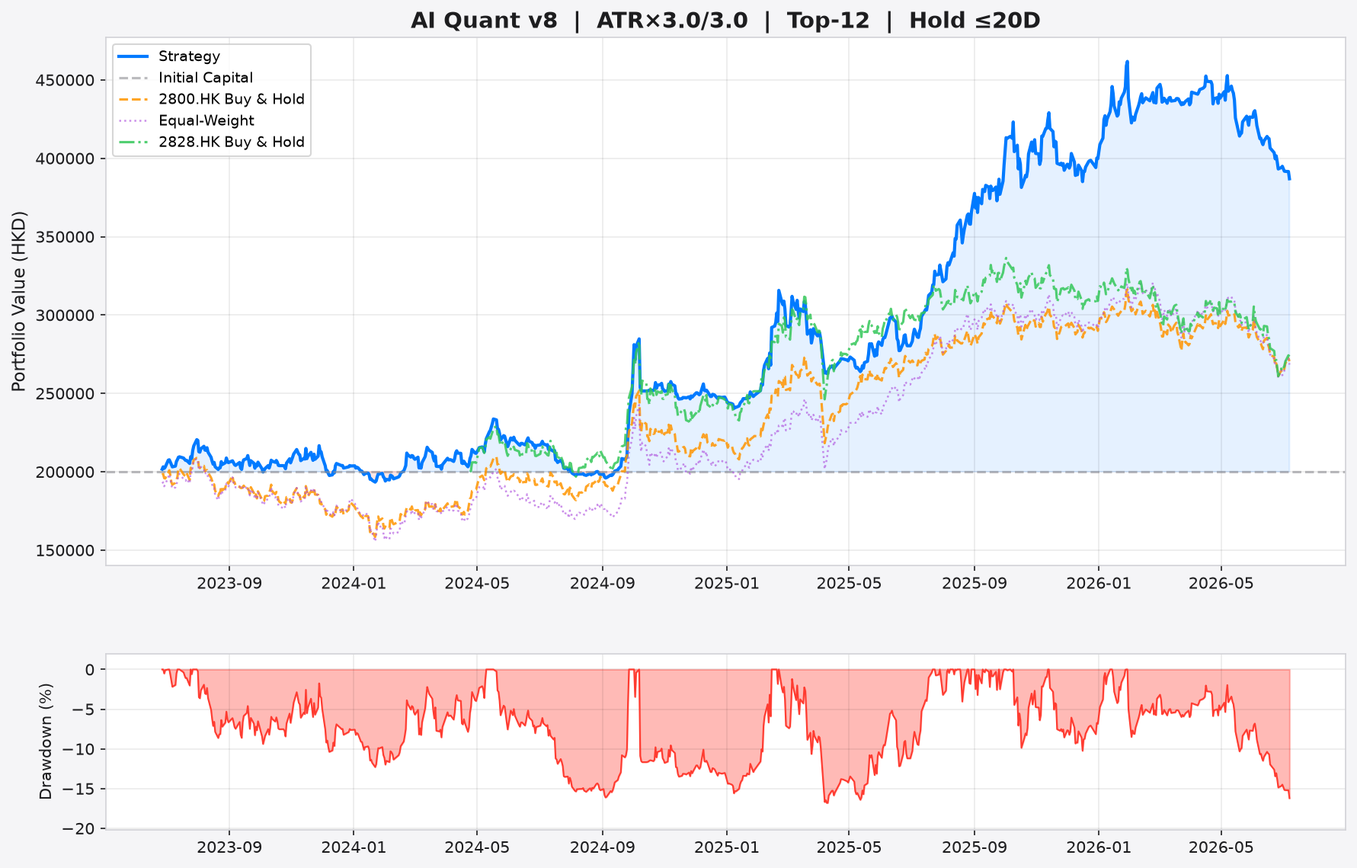
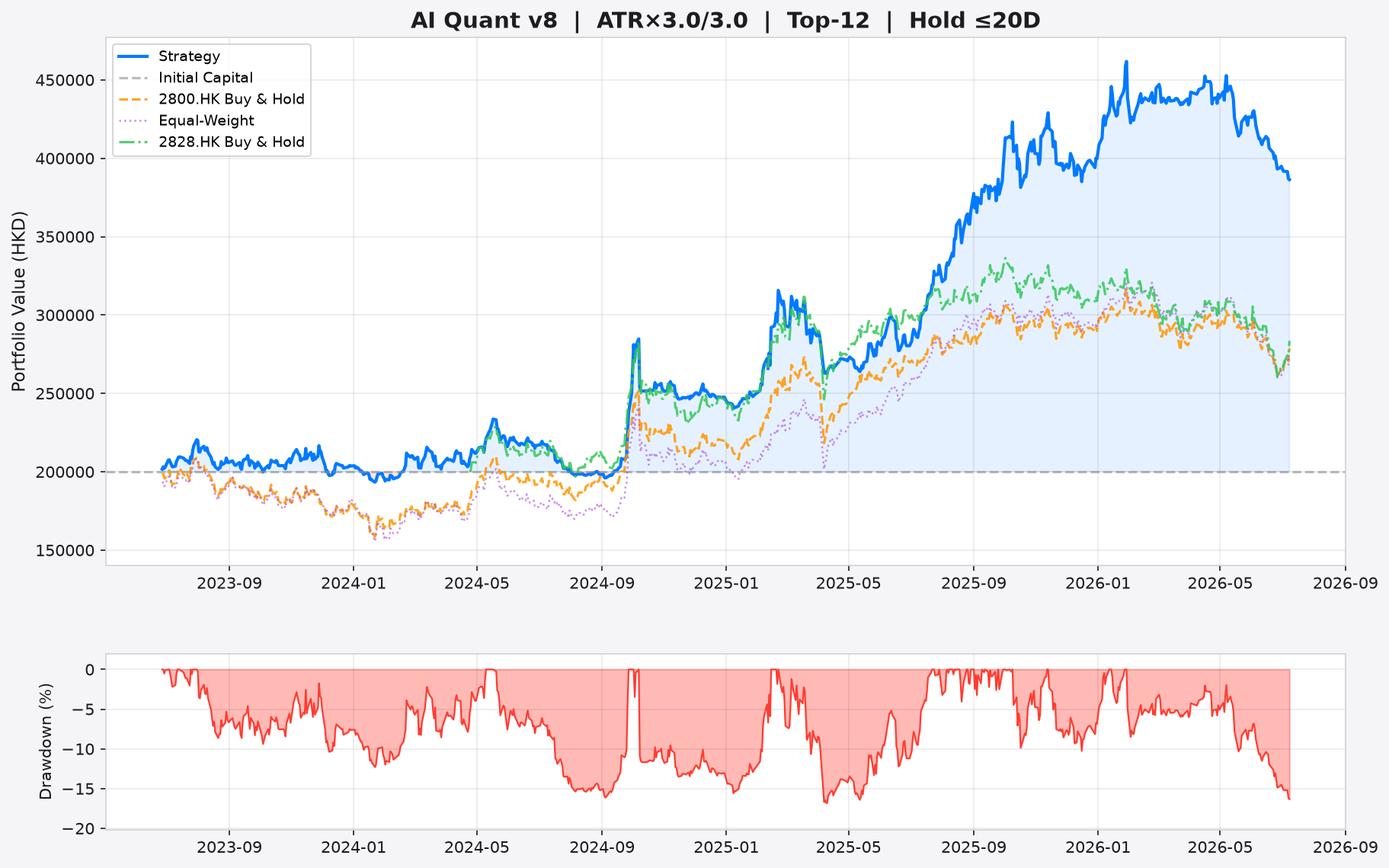
📊 AI Report v8.5 + Paper Trading (2026-07-08)

diff --git a/stock_report.html b/stock_report.html
@@ -3,7 +3,7 @@
 <head>
     <meta charset="utf-8">
     <meta name="viewport" content="width=device-width, initial-scale=1.0">
-    <title>AI 港股量化交易 v8.5 — 2026-07-07</title>
+    <title>AI 港股量化交易 v8.5 — 2026-07-08</title>
     <meta name="description" content="AI 驅動的港股量化交易系統 v8.5，完整風險報告、Benchmark 對比、OCO 智慧掛單建議">
     <script>
         (function() {
@@ -292,7 +292,7 @@
 
     <h1>🎯 AI 港股量化交易 v8.5</h1>
     <p class="subtitle">
-        Event-Driven System &nbsp;|&nbsp; 報表日期: 2026-07-07 &nbsp;|&nbsp;
+        Event-Driven System &nbsp;|&nbsp; 報表日期: 2026-07-08 &nbsp;|&nbsp;
         <span class="config-badge">🛡 ATR×3.0/3.0</span>
         <span class="config-badge">🌐 Universe-60</span>
         <span class="config-badge">🎯 Top-12</span>
@@ -305,19 +305,19 @@
     <div class="stats">
         <div class="stat-card">
             <div class="label">策略總報酬率</div>
-            <div class="value" style="color:#00ff00;">+93.5%</div>
+            <div class="value" style="color:#00ff00;">+93.2%</div>
         </div>
         <div class="stat-card">
             <div class="label">年化報酬率</div>
-            <div class="value" style="color:#00ff00;">+25.1%</div>
+            <div class="value" style="color:#00ff00;">+25.0%</div>
         </div>
         <div class="stat-card">
             <div class="label">年化波動率</div>
-            <div class="value">24.6%</div>
+            <div class="value">24.5%</div>
         </div>
         <div class="stat-card risk">
             <div class="label">Sharpe Ratio</div>
-            <div class="value" style="color:#00ff00;">1.03</div>
+            <div class="value" style="color:#00ff00;">1.02</div>
         </div>
         <div class="stat-card risk">
             <div class="label">Sortino Ratio</div>
@@ -329,7 +329,7 @@
         </div>
         <div class="stat-card risk">
             <div class="label">Calmar Ratio</div>
-            <div class="value">1.50</div>
+            <div class="value">1.49</div>
         </div>
         <div class="stat-card">
             <div class="label">完成交易數</div>
@@ -372,23 +372,27 @@
             </tr>
         </thead>
         <tbody>
-<tr><td>2359</td><td>5.47</td><td>150.3</td><td><span style="color:#00ff00; font-weight:bold;">🟢 建議買進 #1</span></td><td><b>停利:</b> <span style="color:#00ff00">171.2</span> (+13.9%) <br><b>停損:</b> <span style="color:#ff4444">129.4</span> (-13.9%) <br><b>最晚出場:</b> 2026-08-04</td><td><span style="font-size:0.72rem; color:#888;">歷史 <b>15</b>筆 | 勝率 <b style="color:#00ff00">73%</b> | 均報酬 <b style="color:#00ff00">+4.4%</b></span></td><td><span style="font-size:0.78rem;">⚪ 無資料<br><span style="color:#888; font-weight:bold;">+0.0%</span></span></td><td><span style="font-size:0.78rem;">⚪ 中性</span></td></tr>
-<tr><td>1801</td><td>5.24</td><td>87.2</td><td><span style="color:#00ff00; font-weight:bold;">🟢 建議買進 #2</span></td><td><b>停利:</b> <span style="color:#00ff00">100.4</span> (+15.2%) <br><b>停損:</b> <span style="color:#ff4444">74.0</span> (-15.2%) <br><b>最晚出場:</b> 2026-08-04</td><td><span style="font-size:0.72rem; color:#888;">歷史 <b>11</b>筆 | 勝率 <b style="color:#00ff00">64%</b> | 均報酬 <b style="color:#00ff00">+3.1%</b></span></td><td><span style="font-size:0.78rem;">⚪ 無資料<br><span style="color:#888; font-weight:bold;">+0.0%</span></span></td><td><span style="font-size:0.78rem;">⚪ 中性</span></td></tr>
-<tr><td>2269</td><td>5.22</td><td>36.8</td><td><span style="color:#00ff00; font-weight:bold;">🟢 建議買進 #3</span></td><td><b>停利:</b> <span style="color:#00ff00">41.9</span> (+13.8%) <br><b>停損:</b> <span style="color:#ff4444">31.7</span> (-13.8%) <br><b>最晚出場:</b> 2026-08-04</td><td><span style="font-size:0.72rem; color:#888;">歷史 <b>11</b>筆 | 勝率 <b style="color:#ff4444">45%</b> | 均報酬 <b style="color:#ff4444">-2.2%</b></span></td><td><span style="font-size:0.78rem;">⚪ 無資料<br><span style="color:#888; font-weight:bold;">+0.0%</span></span></td><td><span style="font-size:0.78rem;">⚪ 中性</span></td></tr>
-<tr><td>0669</td><td>5.13</td><td>130.3</td><td><span style="color:#00ff00; font-weight:bold;">🟢 建議買進 #4</span></td><td><b>停利:</b> <span style="color:#00ff00">144.8</span> (+11.2%) <br><b>停損:</b> <span style="color:#ff4444">115.8</span> (-11.2%) <br><b>最晚出場:</b> 2026-08-04</td><td><span style="font-size:0.72rem; color:#888;">歷史 <b>10</b>筆 | 勝率 <b style="color:#00ff00">80%</b> | 均報酬 <b style="color:#00ff00">+2.3%</b></span></td><td><span style="font-size:0.78rem;">⚪ 無資料<br><span style="color:#888; font-weight:bold;">+0.0%</span></span></td><td><span style="font-size:0.78rem;">⚪ 中性</span></td></tr>
-<tr><td>6160</td><td>5.13</td><td>184.3</td><td><span style="color:#00ff00; font-weight:bold;">🟢 建議買進 #5</span></td><td><b>停利:</b> <span style="color:#00ff00">204.7</span> (+11.1%) <br><b>停損:</b> <span style="color:#ff4444">163.9</span> (-11.1%) <br><b>最晚出場:</b> 2026-08-04</td><td><span style="font-size:0.72rem; color:#888;">歷史 <b>2</b>筆 | 勝率 <b style="color:#00ff00">50%</b> | 均報酬 <b style="color:#ff4444">-1.4%</b></span></td><td><span style="font-size:0.78rem;">⚪ 無資料<br><span style="color:#888; font-weight:bold;">+0.0%</span></span></td><td><span style="font-size:0.78rem;">⚪ 中性</span></td></tr>
-<tr><td>0005</td><td>4.98</td><td>153.3</td><td><span style="color:#00ff00; font-weight:bold;">🟢 建議買進 #6</span></td><td><b>停利:</b> <span style="color:#00ff00">162.4</span> (+5.9%) <br><b>停損:</b> <span style="color:#ff4444">144.2</span> (-5.9%) <br><b>最晚出場:</b> 2026-08-04</td><td><span style="font-size:0.72rem; color:#888;">歷史 <b>9</b>筆 | 勝率 <b style="color:#00ff00">78%</b> | 均報酬 <b style="color:#00ff00">+2.3%</b></span></td><td><span style="font-size:0.78rem;">⚪ 無資料<br><span style="color:#888; font-weight:bold;">+0.0%</span></span></td><td><span style="font-size:0.78rem;">⚪ 中性</span></td></tr>
-<tr><td>9999</td><td>4.97</td><td>205.2</td><td><span style="color:#00ff00; font-weight:bold;">🟢 建議買進 #7</span></td><td><b>停利:</b> <span style="color:#00ff00">225.1</span> (+9.7%) <br><b>停損:</b> <span style="color:#ff4444">185.3</span> (-9.7%) <br><b>最晚出場:</b> 2026-08-04</td><td><span style="font-size:0.72rem; color:#888;">歷史 <b>9</b>筆 | 勝率 <b style="color:#00ff00">78%</b> | 均報酬 <b style="color:#00ff00">+3.8%</b></span></td><td><span style="font-size:0.78rem;">⚪ 無資料<br><span style="color:#888; font-weight:bold;">+0.0%</span></span></td><td><span style="font-size:0.78rem;">⚪ 中性</span></td></tr>
-<tr><td>2319</td><td>4.95</td><td>17.1</td><td><span style="color:#00ff00; font-weight:bold;">🟢 建議買進 #8</span></td><td><b>停利:</b> <span style="color:#00ff00">18.9</span> (+10.4%) <br><b>停損:</b> <span style="color:#ff4444">15.3</span> (-10.4%) <br><b>最晚出場:</b> 2026-08-04</td><td><span style="font-size:0.72rem; color:#888;">歷史 <b>4</b>筆 | 勝率 <b style="color:#ff4444">25%</b> | 均報酬 <b style="color:#ff4444">-4.3%</b></span></td><td><span style="font-size:0.78rem;">⚪ 無資料<br><span style="color:#888; font-weight:bold;">+0.0%</span></span></td><td><span style="font-size:0.78rem;">⚪ 中性</span></td></tr>
-<tr><td>1093</td><td>4.84</td><td>7.9</td><td><span style="color:#00ff00; font-weight:bold;">🟢 建議買進 #9</span></td><td><b>停利:</b> <span style="color:#00ff00">9.0</span> (+14.3%) <br><b>停損:</b> <span style="color:#ff4444">6.7</span> (-14.3%) <br><b>最晚出場:</b> 2026-08-04</td><td><span style="font-size:0.72rem; color:#888;">歷史 <b>13</b>筆 | 勝率 <b style="color:#00ff00">69%</b> | 均報酬 <b style="color:#00ff00">+5.3%</b></span></td><td><span style="font-size:0.78rem;">⚪ 無資料<br><span style="color:#888; font-weight:bold;">+0.0%</span></span></td><td><span style="font-size:0.78rem;">⚪ 中性</span></td></tr>
-<tr><td>0700</td><td>4.39</td><td>461.2</td><td><span style="color:#00ff00; font-weight:bold;">🟢 建議買進 #10</span></td><td><b>停利:</b> <span style="color:#00ff00">513.9</span> (+11.4%) <br><b>停損:</b> <span style="color:#ff4444">408.5</span> (-11.4%) <br><b>最晚出場:</b> 2026-08-04</td><td><span style="font-size:0.72rem; color:#888;">歷史 <b>3</b>筆 | 勝率 <b style="color:#00ff00">67%</b> | 均報酬 <b style="color:#ff4444">-0.0%</b></span></td><td><span style="font-size:0.78rem;">⚪ 無資料<br><span style="color:#888; font-weight:bold;">+0.0%</span></span></td><td><span style="font-size:0.78rem;">⚪ 中性</span></td></tr>
-<tr><td>2628</td><td>4.35</td><td>28.3</td><td><span style="color:#00ff00; font-weight:bold;">🟢 建議買進 #11</span></td><td><b>停利:</b> <span style="color:#00ff00">32.7</span> (+15.7%) <br><b>停損:</b> <span style="color:#ff4444">23.9</span> (-15.7%) <br><b>最晚出場:</b> 2026-08-04</td><td><span style="font-size:0.72rem; color:#888;">歷史 <b>11</b>筆 | 勝率 <b style="color:#00ff00">82%</b> | 均報酬 <b style="color:#00ff00">+6.0%</b></span></td><td><span style="font-size:0.78rem;">⚪ 無資料<br><span style="color:#888; font-weight:bold;">+0.0%</span></span></td><td><span style="font-size:0.78rem;">⚪ 中性</span></td></tr>
-<tr><td>0981</td><td>3.81</td><td>73.4</td><td><span style="color:#00ff00; font-weight:bold;">🟢 建議買進 #12</span></td><td><b>停利:</b> <span style="color:#00ff00">91.8</span> (+24.9%) <br><b>停損:</b> <span style="color:#ff4444">55.1</span> (-24.9%) <br><b>最晚出場:</b> 2026-08-04</td><td><span style="font-size:0.72rem; color:#888;">歷史 <b>19</b>筆 | 勝率 <b style="color:#00ff00">58%</b> | 均報酬 <b style="color:#00ff00">+5.0%</b></span></td><td><span style="font-size:0.78rem;">⚪ 無資料<br><span style="color:#888; font-weight:bold;">+0.0%</span></span></td><td><span style="font-size:0.78rem;">⚪ 中性</span></td></tr>
-<tr style="opacity:0.4"><td>3692</td><td>4.78</td><td>32.6</td><td><span style="color:#aaaaaa">⚪ 觀望 (低於 MA)</span></td><td>-</td><td>-</td><td style="color:#555">-</td><td style="color:#555">-</td></tr>
-<tr style="opacity:0.4"><td>0175</td><td>4.30</td><td>19.2</td><td><span style="color:#aaaaaa">⚪ 觀望 (低於 MA)</span></td><td>-</td><td>-</td><td style="color:#555">-</td><td style="color:#555">-</td></tr>
-<tr style="opacity:0.4"><td>0823</td><td>4.21</td><td>37.3</td><td><span style="color:#aaaaaa">⚪ 觀望 (低於 MA)</span></td><td>-</td><td>-</td><td style="color:#555">-</td><td style="color:#555">-</td></tr>
-<tr style="opacity:0.4"><td>3888</td><td>4.12</td><td>22.8</td><td><span style="color:#aaaaaa">⚪ 觀望 (低於 MA)</span></td><td>-</td><td>-</td><td style="color:#555">-</td><td style="color:#555">-</td></tr>
-<tr style="opacity:0.4"><td>1177</td><td>4.10</td><td>4.8</td><td><span style="color:#aaaaaa">⚪ 觀望 (低於 MA)</span></td><td>-</td><td>-</td><td style="color:#555">-</td><td style="color:#555">-</td></tr>
+<tr><td>2359</td><td>5.41</td><td>146.4</td><td><span style="color:#00ff00; font-weight:bold;">🟢 建議買進 #1</span></td><td><b>停利:</b> <span style="color:#00ff00">167.5</span> (+14.4%) <br><b>停損:</b> <span style="color:#ff4444">125.2</span> (-14.4%) <br><b>最晚出場:</b> 2026-08-05</td><td><span style="font-size:0.72rem; color:#888;">歷史 <b>15</b>筆 | 勝率 <b style="color:#00ff00">73%</b> | 均報酬 <b style="color:#00ff00">+4.4%</b></span></td><td><span style="font-size:0.78rem;">⚪ 無資料<br><span style="color:#888; font-weight:bold;">+0.0%</span></span></td><td><span style="font-size:0.78rem;">⚪ 中性</span></td></tr>
+<tr><td>9999</td><td>5.35</td><td>213.8</td><td><span style="color:#00ff00; font-weight:bold;">🟢 建議買進 #2</span></td><td><b>停利:</b> <span style="color:#00ff00">234.7</span> (+9.8%) <br><b>停損:</b> <span style="color:#ff4444">192.9</span> (-9.8%) <br><b>最晚出場:</b> 2026-08-05</td><td><span style="font-size:0.72rem; color:#888;">歷史 <b>9</b>筆 | 勝率 <b style="color:#00ff00">78%</b> | 均報酬 <b style="color:#00ff00">+3.8%</b></span></td><td><span style="font-size:0.78rem;">⚪ 無資料<br><span style="color:#888; font-weight:bold;">+0.0%</span></span></td><td><span style="font-size:0.78rem;">⚪ 中性</span></td></tr>
+<tr><td>2269</td><td>5.16</td><td>35.7</td><td><span style="color:#00ff00; font-weight:bold;">🟢 建議買進 #3</span></td><td><b>停利:</b> <span style="color:#00ff00">40.7</span> (+14.0%) <br><b>停損:</b> <span style="color:#ff4444">30.7</span> (-14.0%) <br><b>最晚出場:</b> 2026-08-05</td><td><span style="font-size:0.72rem; color:#888;">歷史 <b>11</b>筆 | 勝率 <b style="color:#ff4444">45%</b> | 均報酬 <b style="color:#ff4444">-2.2%</b></span></td><td><span style="font-size:0.78rem;">⚪ 無資料<br><span style="color:#888; font-weight:bold;">+0.0%</span></span></td><td><span style="font-size:0.78rem;">⚪ 中性</span></td></tr>
+<tr><td>1801</td><td>5.12</td><td>86.2</td><td><span style="color:#00ff00; font-weight:bold;">🟢 建議買進 #4</span></td><td><b>停利:</b> <span style="color:#00ff00">99.3</span> (+15.2%) <br><b>停損:</b> <span style="color:#ff4444">73.1</span> (-15.2%) <br><b>最晚出場:</b> 2026-08-05</td><td><span style="font-size:0.72rem; color:#888;">歷史 <b>11</b>筆 | 勝率 <b style="color:#00ff00">64%</b> | 均報酬 <b style="color:#00ff00">+3.1%</b></span></td><td><span style="font-size:0.78rem;">⚪ 無資料<br><span style="color:#888; font-weight:bold;">+0.0%</span></span></td><td><span style="font-size:0.78rem;">⚪ 中性</span></td></tr>
+<tr><td>2319</td><td>5.07</td><td>17.6</td><td><span style="color:#00ff00; font-weight:bold;">🟢 建議買進 #5</span></td><td><b>停利:</b> <span style="color:#00ff00">19.4</span> (+10.0%) <br><b>停損:</b> <span style="color:#ff4444">15.8</span> (-10.0%) <br><b>最晚出場:</b> 2026-08-05</td><td><span style="font-size:0.72rem; color:#888;">歷史 <b>4</b>筆 | 勝率 <b style="color:#ff4444">25%</b> | 均報酬 <b style="color:#ff4444">-4.3%</b></span></td><td><span style="font-size:0.78rem;">⚪ 無資料<br><span style="color:#888; font-weight:bold;">+0.0%</span></span></td><td><span style="font-size:0.78rem;">⚪ 中性</span></td></tr>
+<tr><td>6160</td><td>4.93</td><td>183.6</td><td><span style="color:#00ff00; font-weight:bold;">🟢 建議買進 #6</span></td><td><b>停利:</b> <span style="color:#00ff00">204.3</span> (+11.2%) <br><b>停損:</b> <span style="color:#ff4444">162.9</span> (-11.2%) <br><b>最晚出場:</b> 2026-08-05</td><td><span style="font-size:0.72rem; color:#888;">歷史 <b>2</b>筆 | 勝率 <b style="color:#00ff00">50%</b> | 均報酬 <b style="color:#ff4444">-1.4%</b></span></td><td><span style="font-size:0.78rem;">⚪ 無資料<br><span style="color:#888; font-weight:bold;">+0.0%</span></span></td><td><span style="font-size:0.78rem;">⚪ 中性</span></td></tr>
+<tr><td>3888</td><td>4.88</td><td>24.3</td><td><span style="color:#00ff00; font-weight:bold;">🟢 建議買進 #7</span></td><td><b>停利:</b> <span style="color:#00ff00">27.9</span> (+14.5%) <br><b>停損:</b> <span style="color:#ff4444">20.8</span> (-14.5%) <br><b>最晚出場:</b> 2026-08-05</td><td><span style="font-size:0.72rem; color:#888;">歷史 <b>3</b>筆 | 勝率 <b style="color:#00ff00">67%</b> | 均報酬 <b style="color:#00ff00">+1.8%</b></span></td><td><span style="font-size:0.78rem;">⚪ 無資料<br><span style="color:#888; font-weight:bold;">+0.0%</span></span></td><td><span style="font-size:0.78rem;">⚪ 中性</span></td></tr>
+<tr><td>1093</td><td>4.85</td><td>7.8</td><td><span style="color:#00ff00; font-weight:bold;">🟢 建議買進 #8</span></td><td><b>停利:</b> <span style="color:#00ff00">9.0</span> (+14.5%) <br><b>停損:</b> <span style="color:#ff4444">6.7</span> (-14.5%) <br><b>最晚出場:</b> 2026-08-05</td><td><span style="font-size:0.72rem; color:#888;">歷史 <b>13</b>筆 | 勝率 <b style="color:#00ff00">69%</b> | 均報酬 <b style="color:#00ff00">+5.3%</b></span></td><td><span style="font-size:0.78rem;">⚪ 無資料<br><span style="color:#888; font-weight:bold;">+0.0%</span></span></td><td><span style="font-size:0.78rem;">⚪ 中性</span></td></tr>
+<tr><td>0005</td><td>4.69</td><td>151.9</td><td><span style="color:#00ff00; font-weight:bold;">🟢 建議買進 #9</span></td><td><b>停利:</b> <span style="color:#00ff00">161.0</span> (+6.0%) <br><b>停損:</b> <span style="color:#ff4444">142.7</span> (-6.0%) <br><b>最晚出場:</b> 2026-08-05</td><td><span style="font-size:0.72rem; color:#888;">歷史 <b>9</b>筆 | 勝率 <b style="color:#00ff00">78%</b> | 均報酬 <b style="color:#00ff00">+2.3%</b></span></td><td><span style="font-size:0.78rem;">⚪ 無資料<br><span style="color:#888; font-weight:bold;">+0.0%</span></span></td><td><span style="font-size:0.78rem;">⚪ 中性</span></td></tr>
+<tr><td>0700</td><td>4.63</td><td>478.8</td><td><span style="color:#00ff00; font-weight:bold;">🟢 建議買進 #10</span></td><td><b>停利:</b> <span style="color:#00ff00">532.6</span> (+11.2%) <br><b>停損:</b> <span style="color:#ff4444">425.0</span> (-11.2%) <br><b>最晚出場:</b> 2026-08-05</td><td><span style="font-size:0.72rem; color:#888;">歷史 <b>3</b>筆 | 勝率 <b style="color:#00ff00">67%</b> | 均報酬 <b style="color:#ff4444">-0.0%</b></span></td><td><span style="font-size:0.78rem;">⚪ 無資料<br><span style="color:#888; font-weight:bold;">+0.0%</span></span></td><td><span style="font-size:0.78rem;">⚪ 中性</span></td></tr>
+<tr><td>0669</td><td>4.62</td><td>126.1</td><td><span style="color:#00ff00; font-weight:bold;">🟢 建議買進 #11</span></td><td><b>停利:</b> <span style="color:#00ff00">140.5</span> (+11.4%) <br><b>停損:</b> <span style="color:#ff4444">111.7</span> (-11.4%) <br><b>最晚出場:</b> 2026-08-05</td><td><span style="font-size:0.72rem; color:#888;">歷史 <b>10</b>筆 | 勝率 <b style="color:#00ff00">80%</b> | 均報酬 <b style="color:#00ff00">+2.3%</b></span></td><td><span style="font-size:0.78rem;">⚪ 無資料<br><span style="color:#888; font-weight:bold;">+0.0%</span></span></td><td><span style="font-size:0.78rem;">⚪ 中性</span></td></tr>
+<tr><td>2628</td><td>4.60</td><td>29.1</td><td><span style="color:#00ff00; font-weight:bold;">🟢 建議買進 #12</span></td><td><b>停利:</b> <span style="color:#00ff00">33.5</span> (+15.2%) <br><b>停損:</b> <span style="color:#ff4444">24.6</span> (-15.2%) <br><b>最晚出場:</b> 2026-08-05</td><td><span style="font-size:0.72rem; color:#888;">歷史 <b>11</b>筆 | 勝率 <b style="color:#00ff00">82%</b> | 均報酬 <b style="color:#00ff00">+6.0%</b></span></td><td><span style="font-size:0.78rem;">⚪ 無資料<br><span style="color:#888; font-weight:bold;">+0.0%</span></span></td><td><span style="font-size:0.78rem;">⚪ 中性</span></td></tr>
+<tr style="opacity:0.6"><td>3690</td><td>4.29</td><td>80.9</td><td><span style="color:#ffab00">🟡 候選 (超出 Top-K)</span></td><td>-</td><td><span style="font-size:0.72rem; color:#888;">勝率 <b style="color:#00ff00">82%</b></span></td><td><span style="font-size:0.72rem;">⚪ 無資料<br><span style="color:#888">+0.0%</span></span></td><td><span style="font-size:0.72rem;">⚪ 中性</span></td></tr>
+<tr style="opacity:0.6"><td>0981</td><td>3.84</td><td>75.8</td><td><span style="color:#ffab00">🟡 候選 (超出 Top-K)</span></td><td>-</td><td><span style="font-size:0.72rem; color:#888;">勝率 <b style="color:#00ff00">58%</b></span></td><td><span style="font-size:0.72rem;">⚪ 無資料<br><span style="color:#888">+0.0%</span></span></td><td><span style="font-size:0.72rem;">⚪ 中性</span></td></tr>
+<tr style="opacity:0.6"><td>2388</td><td>3.46</td><td>45.4</td><td><span style="color:#ffab00">🟡 候選 (超出 Top-K)</span></td><td>-</td><td><span style="font-size:0.72rem; color:#888;">勝率 <b style="color:#ff4444">40%</b></span></td><td><span style="font-size:0.72rem;">⚪ 無資料<br><span style="color:#888">+0.0%</span></span></td><td><span style="font-size:0.72rem;">⚪ 中性</span></td></tr>
+<tr style="opacity:0.6"><td>3988</td><td>3.27</td><td>5.1</td><td><span style="color:#ffab00">🟡 候選 (超出 Top-K)</span></td><td>-</td><td><span style="font-size:0.72rem; color:#888;">勝率 <b style="color:#00ff00">75%</b></span></td><td><span style="font-size:0.72rem;">⚪ 無資料<br><span style="color:#888">+0.0%</span></span></td><td><span style="font-size:0.72rem;">⚪ 中性</span></td></tr>
+<tr style="opacity:0.4"><td>3692</td><td>4.31</td><td>32.1</td><td><span style="color:#aaaaaa">⚪ 觀望 (低於 MA)</span></td><td>-</td><td>-</td><td style="color:#555">-</td><td style="color:#555">-</td></tr>
+<tr style="opacity:0.4"><td>1177</td><td>3.94</td><td>4.8</td><td><span style="color:#aaaaaa">⚪ 觀望 (低於 MA)</span></td><td>-</td><td>-</td><td style="color:#555">-</td><td style="color:#555">-</td></tr>
+<tr style="opacity:0.4"><td>0823</td><td>3.92</td><td>37.5</td><td><span style="color:#aaaaaa">⚪ 觀望 (低於 MA)</span></td><td>-</td><td>-</td><td style="color:#555">-</td><td style="color:#555">-</td></tr>
+<tr style="opacity:0.4"><td>0175</td><td>3.88</td><td>19.0</td><td><span style="color:#aaaaaa">⚪ 觀望 (低於 MA)</span></td><td>-</td><td>-</td><td style="color:#555">-</td><td style="color:#555">-</td></tr>
+<tr style="opacity:0.4"><td>9888</td><td>3.56</td><td>117.6</td><td><span style="color:#aaaaaa">⚪ 觀望 (低於 MA)</span></td><td>-</td><td>-</td><td style="color:#555">-</td><td style="color:#555">-</td></tr>
 
         </tbody>
     </table>
@@ -400,7 +404,7 @@
     <div class="stats">
         <div class="stat-card benchmark">
             <div class="label">2800.HK 年化報酬</div>
-            <div class="value">+10.0%</div>
+            <div class="value">+11.0%</div>
         </div>
         <div class="stat-card benchmark">
             <div class="label">2800.HK 最大回撤</div>
@@ -408,18 +412,18 @@
         </div>
         <div class="stat-card benchmark">
             <div class="label">2800.HK Sharpe</div>
-            <div class="value">0.53</div>
+            <div class="value">0.57</div>
         </div>
         <div class="stat-card" style="border-left-color:#00ff00">
             <div class="label">超額年化報酬 (α)</div>
-            <div class="value" style="color:#00ff00">+15.2%</div>
+            <div class="value" style="color:#00ff00">+14.0%</div>
         </div>
     </div>
 
     <div class="stats">
         <div class="stat-card benchmark">
             <div class="label">2828.HK 年化報酬</div>
-            <div class="value">+15.8%</div>
+            <div class="value">+17.7%</div>
         </div>
         <div class="stat-card benchmark">
             <div class="label">2828.HK 最大回撤</div>
@@ -427,11 +431,11 @@
         </div>
         <div class="stat-card benchmark">
             <div class="label">2828.HK Sharpe</div>
-            <div class="value">0.69</div>
+            <div class="value">0.76</div>
         </div>
         <div class="stat-card" style="border-left-color:#00ff00">
             <div class="label">超額 vs 2828.HK (共存期)</div>
-            <div class="value" style="color:#00ff00">+48.8%</div>
+            <div class="value" style="color:#00ff00">+43.6%</div>
         </div>
     </div>
     <img src="backtest_chart.png" alt="AI Quantitative Backtest Equity Curve with Benchmark">
@@ -446,19 +450,19 @@
         </div>
         <div class="stat-card benchmark">
             <div class="label">2800.HK 近 5 日</div>
-            <div class="value" style="color:#00ff00">+2.7%</div>
+            <div class="value" style="color:#00ff00">+4.9%</div>
         </div>
         <div class="stat-card benchmark">
             <div class="label">2800.HK 近 20 日</div>
-            <div class="value" style="color:#ff4444">-4.2%</div>
+            <div class="value" style="color:#ff4444">-1.0%</div>
         </div>
         <div class="stat-card benchmark">
             <div class="label">2800.HK 近 60 日</div>
-            <div class="value" style="color:#ff4444">-7.4%</div>
+            <div class="value" style="color:#ff4444">-5.0%</div>
         </div>
         <div class="stat-card risk">
             <div class="label">市場波動率 (20D)</div>
-            <div class="value">18.5%</div>
+            <div class="value">21.7%</div>
         </div>
     </div>
 
@@ -468,7 +472,7 @@
     <div class="stats">
         <div class="stat-card risk">
             <div class="label">目前回撤</div>
-            <div class="value" style="color:#ff4444">-16.2%</div>
+            <div class="value" style="color:#ff4444">-16.3%</div>
         </div>
         <div class="stat-card">
             <div class="label">權益最高點</div>
@@ -483,7 +487,7 @@
         <thead><tr><th>#</th><th>開始日</th><th>恢復日</th><th>最大深度</th><th>持續天數</th></tr></thead>
         <tbody>
 <tr><td>#1</td><td>2025-02-24</td><td>2025-07-21</td><td style="color:#ff4444; font-weight:bold">-16.8%</td><td>147 天</td></tr>
-<tr><td>#2</td><td>2026-01-30</td><td>2026-07-07</td><td style="color:#ff4444; font-weight:bold">-16.2%</td><td>158 天</td></tr>
+<tr><td>#2</td><td>2026-01-30</td><td>2026-07-08</td><td style="color:#ff4444; font-weight:bold">-16.3%</td><td>159 天</td></tr>
 <tr><td>#3</td><td>2024-05-21</td><td>2024-09-27</td><td style="color:#ff4444; font-weight:bold">-16.1%</td><td>129 天</td></tr>
 <tr><td>#4</td><td>2024-10-08</td><td>2025-02-14</td><td style="color:#ff4444; font-weight:bold">-15.6%</td><td>129 天</td></tr>
 <tr><td>#5</td><td>2023-08-02</td><td>2024-05-10</td><td style="color:#ff4444; font-weight:bold">-12.3%</td><td>282 天</td></tr>
@@ -497,11 +501,11 @@
     <div class="stats">
         <div class="stat-card" style="border-left-color:#ff4444">
             <div class="label">近 60 日 Sharpe</div>
-            <div class="value" style="color:#ff4444">-3.28</div>
+            <div class="value" style="color:#ff4444">-3.40</div>
         </div>
         <div class="stat-card">
             <div class="label">歷史平均 Sharpe</div>
-            <div class="value">0.91</div>
+            <div class="value">0.90</div>
         </div>
         <div class="stat-card risk">
             <div class="label">歷史最低 Sharpe</div>
@@ -662,7 +666,7 @@
 <tr style="background:rgba(0,255,0,0.03)"><td>2026-04</td><td style="color:#00ff00; font-weight:bold">+1.0%</td></tr>
 <tr style="background:rgba(255,68,68,0.08)"><td>2026-05</td><td style="color:#ff4444; font-weight:bold">-2.7%</td></tr>
 <tr style="background:rgba(255,68,68,0.22)"><td>2026-06</td><td style="color:#ff4444; font-weight:bold">-7.4%</td></tr>
-<tr style="background:rgba(255,68,68,0.06)"><td>2026-07</td><td style="color:#ff4444; font-weight:bold">-2.0%</td></tr>
+<tr style="background:rgba(255,68,68,0.06)"><td>2026-07</td><td style="color:#ff4444; font-weight:bold">-2.2%</td></tr>
 
         </tbody>
     </table>

diff --git a/day_trade_report.html b/day_trade_report.html
@@ -3,7 +3,7 @@
 <head>
     <meta charset="utf-8">
     <meta name="viewport" content="width=device-width, initial-scale=1.0">
-    <title>AI 港股 Day Trade 報告 — 2026-07-07</title>
+    <title>AI 港股 Day Trade 報告 — 2026-07-08</title>
     <style>
         * { box-sizing: border-box; }
         body {
@@ -81,7 +81,7 @@
 <div class="container">
     <h1>⚡ AI 港股 Day Trade 報告</h1>
     <p class="subtitle">
-        報表日期：2026-07-07 ｜ 下一交易日：2026-07-08
+        報表日期：2026-07-08 ｜ 下一交易日：2026-07-09
         <br>
         <span class="badge">t-1 watchlist → t open trigger → t close exit</span>
         <span class="badge">SHORT</span>
@@ -95,30 +95,28 @@
 
     <h2>績效總覽</h2>
     <div class="stats">
-        <div class="stat-card"><div class="label">策略總報酬率</div><div class="value" style="color:#00ff00;">+9.8%</div></div>
-        <div class="stat-card"><div class="label">年化報酬率</div><div class="value" style="color:#00ff00;">+3.0%</div></div>
-        <div class="stat-card"><div class="label">Sharpe Ratio</div><div class="value" style="color:#00ff00;">1.05</div></div>
+        <div class="stat-card"><div class="label">策略總報酬率</div><div class="value" style="color:#00ff00;">+9.6%</div></div>
+        <div class="stat-card"><div class="label">年化報酬率</div><div class="value" style="color:#00ff00;">+2.9%</div></div>
+        <div class="stat-card"><div class="label">Sharpe Ratio</div><div class="value" style="color:#00ff00;">1.03</div></div>
         <div class="stat-card"><div class="label">最大回撤</div><div class="value" style="color:#ffab00;">-4.2%</div></div>
-        <div class="stat-card"><div class="label">完成交易數</div><div class="value">299</div></div>
-        <div class="stat-card"><div class="label">勝率</div><div class="value">53.5%</div></div>
+        <div class="stat-card"><div class="label">完成交易數</div><div class="value">298</div></div>
+        <div class="stat-card"><div class="label">勝率</div><div class="value">53.4%</div></div>
         <div class="stat-card"><div class="label">Profit Factor</div><div class="value">1.34</div></div>
-        <div class="stat-card"><div class="label">平均每筆</div><div class="value">+0.40%</div></div>
+        <div class="stat-card"><div class="label">平均每筆</div><div class="value">+0.39%</div></div>
     </div>
 
     <h2>下一交易日 Day Trade 執行單</h2>
     <p class="section-note">
-        以 2026-07-07 收盤資料產生 watchlist；2026-07-08 開盤後只有符合 gap 條件才執行。
+        以 2026-07-08 收盤資料產生 watchlist；2026-07-09 開盤後只有符合 gap 條件才執行。
         預設為 short day trade，需確認標的可融券、可借券或有對應衍生工具。
     </p>
     <table>
         <thead><tr><th>股票代號</th><th>AI 評分</th><th>昨收參考</th><th>開盤觸發</th><th>狀態</th><th>日內執行計畫</th></tr></thead>
-        <tbody><tr style="opacity:1"><td>2359</td><td>4.97</td><td>150.30</td><td>開盤 gap +3.0% ~ +7.5%</td><td><span style="color:#ffab00;font-weight:bold;">🟢 建議 short day trade #1</span></td><td><b>估算進場:</b> 158.19<br><b>停利:</b> <span style="color:#00ff00">149.13</span> (5.7%)<br><b>停損:</b> <span style="color:#ff4444">163.77</span> (3.5%)<br><b>出場:</b> 當日收盤前</td></tr>
-<tr style="opacity:1"><td>1801</td><td>4.74</td><td>87.20</td><td>開盤 gap +3.0% ~ +7.5%</td><td><span style="color:#ffab00;font-weight:bold;">🟢 建議 short day trade #2</span></td><td><b>估算進場:</b> 91.78<br><b>停利:</b> <span style="color:#00ff00">86.05</span> (6.2%)<br><b>停損:</b> <span style="color:#ff4444">95.30</span> (3.8%)<br><b>出場:</b> 當日收盤前</td></tr>
-<tr style="opacity:1"><td>2269</td><td>4.66</td><td>36.78</td><td>開盤 gap +3.0% ~ +7.5%</td><td><span style="color:#ffab00;font-weight:bold;">🟢 建議 short day trade #3</span></td><td><b>估算進場:</b> 38.71<br><b>停利:</b> <span style="color:#00ff00">36.51</span> (5.7%)<br><b>停損:</b> <span style="color:#ff4444">40.06</span> (3.5%)<br><b>出場:</b> 當日收盤前</td></tr>
-<tr style="opacity:1"><td>6160</td><td>4.60</td><td>184.30</td><td>開盤 gap +3.0% ~ +7.5%</td><td><span style="color:#ffab00;font-weight:bold;">🟢 建議 short day trade #4</span></td><td><b>估算進場:</b> 193.98<br><b>停利:</b> <span style="color:#00ff00">185.14</span> (4.6%)<br><b>停損:</b> <span style="color:#ff4444">199.42</span> (2.8%)<br><b>出場:</b> 當日收盤前</td></tr>
-<tr style="opacity:0.45"><td>1299</td><td>3.11</td><td>72.60</td><td>-</td><td><span style="color:#aaaaaa;">⚪ 觀望（低於 MA30）</span></td><td>-</td></tr>
-<tr style="opacity:0.45"><td>0388</td><td>3.00</td><td>375.80</td><td>-</td><td><span style="color:#aaaaaa;">⚪ 觀望（低於 MA30）</span></td><td>-</td></tr>
-<tr style="opacity:0.45"><td>0981</td><td>2.97</td><td>73.45</td><td>-</td><td><span style="color:#aaaaaa;">⚪ 觀望（低於 MA30）</span></td><td>-</td></tr>
+        <tbody><tr style="opacity:1"><td>2359</td><td>4.89</td><td>146.40</td><td>開盤 gap +3.0% ~ +7.5%</td><td><span style="color:#ffab00;font-weight:bold;">🟢 建議 short day trade #1</span></td><td><b>估算進場:</b> 154.09<br><b>停利:</b> <span style="color:#00ff00">144.92</span> (5.9%)<br><b>停損:</b> <span style="color:#ff4444">159.73</span> (3.7%)<br><b>出場:</b> 當日收盤前</td></tr>
+<tr style="opacity:1"><td>1801</td><td>4.74</td><td>86.20</td><td>開盤 gap +3.0% ~ +7.5%</td><td><span style="color:#ffab00;font-weight:bold;">🟢 建議 short day trade #2</span></td><td><b>估算進場:</b> 90.73<br><b>停利:</b> <span style="color:#00ff00">85.03</span> (6.3%)<br><b>停損:</b> <span style="color:#ff4444">94.23</span> (3.9%)<br><b>出場:</b> 當日收盤前</td></tr>
+<tr style="opacity:1"><td>9999</td><td>4.71</td><td>213.80</td><td>開盤 gap +3.0% ~ +7.5%</td><td><span style="color:#ffab00;font-weight:bold;">🟢 建議 short day trade #3</span></td><td><b>估算進場:</b> 225.02<br><b>停利:</b> <span style="color:#00ff00">215.98</span> (4.0%)<br><b>停損:</b> <span style="color:#ff4444">230.59</span> (2.5%)<br><b>出場:</b> 當日收盤前</td></tr>
+<tr style="opacity:1"><td>2269</td><td>4.57</td><td>35.66</td><td>開盤 gap +3.0% ~ +7.5%</td><td><span style="color:#ffab00;font-weight:bold;">🟢 建議 short day trade #4</span></td><td><b>估算進場:</b> 37.53<br><b>停利:</b> <span style="color:#00ff00">35.37</span> (5.8%)<br><b>停損:</b> <span style="color:#ff4444">38.86</span> (3.5%)<br><b>出場:</b> 當日收盤前</td></tr>
+<tr style="opacity:0.45"><td>0981</td><td>2.91</td><td>75.80</td><td>-</td><td><span style="color:#aaaaaa;">⚪ 觀望（低於 MA30）</span></td><td>-</td></tr>
 </tbody>
     </table>
 
@@ -127,7 +125,7 @@
     <div class="stats">
         <div class="stat-card benchmark">
             <div class="label">2800.HK 年化報酬</div>
-            <div class="value">+9.6%</div>
+            <div class="value">+10.6%</div>
         </div>
         <div class="stat-card benchmark">
             <div class="label">2800.HK 最大回撤</div>
@@ -135,18 +133,18 @@
         </div>
         <div class="stat-card benchmark">
             <div class="label">2800.HK Sharpe</div>
-            <div class="value">0.51</div>
+            <div class="value">0.55</div>
         </div>
         <div class="stat-card" style="border-left-color:#ff4444">
             <div class="label">年化 alpha vs 2800.HK</div>
-            <div class="value" style="color:#ff4444">-6.6%</div>
+            <div class="value" style="color:#ff4444">-7.7%</div>
         </div>
     </div>
 
     <div class="stats">
         <div class="stat-card benchmark">
             <div class="label">2828.HK 年化報酬</div>
-            <div class="value">+15.8%</div>
+            <div class="value">+17.7%</div>
         </div>
         <div class="stat-card benchmark">
             <div class="label">2828.HK 最大回撤</div>
@@ -154,11 +152,11 @@
         </div>
         <div class="stat-card benchmark">
             <div class="label">2828.HK Sharpe</div>
-            <div class="value">0.69</div>
+            <div class="value">0.76</div>
         </div>
         <div class="stat-card" style="border-left-color:#ff4444">
             <div class="label">超額 vs 2828.HK (共存期)</div>
-            <div class="value" style="color:#ff4444">-28.2%</div>
+            <div class="value" style="color:#ff4444">-33.4%</div>
         </div>
     </div>
     <img src="day_trade_chart.png" alt="HK day trade equity curve">
@@ -168,7 +166,7 @@
             <h2>出場原因</h2>
             <table>
                 <thead><tr><th>原因</th><th>筆數</th><th>平均報酬</th></tr></thead>
-                <tbody><tr><td>Day Close</td><td>188</td><td style="color:#00ff00;font-weight:bold;">+0.58%</td></tr>
+                <tbody><tr><td>Day Close</td><td>187</td><td style="color:#00ff00;font-weight:bold;">+0.58%</td></tr>
 <tr><td>Stop Loss</td><td>61</td><td style="color:#ff4444;font-weight:bold;">-3.61%</td></tr>
 <tr><td>TP/SL same day (SL first)</td><td>4</td><td style="color:#ff4444;font-weight:bold;">-3.87%</td></tr>
 <tr><td>Take Profit</td><td>46</td><td style="color:#00ff00;font-weight:bold;">+5.32%</td></tr>
@@ -190,7 +188,7 @@
 <tr><td>2025-03</td><td style="color:#00ff00;font-weight:bold;">+0.99%</td></tr>
 <tr><td>2025-04</td><td style="color:#00ff00;font-weight:bold;">+0.18%</td></tr>
 <tr><td>2025-05</td><td style="color:#00ff00;font-weight:bold;">+1.74%</td></tr>
-<tr><td>2025-06</td><td style="color:#ff4444;font-weight:bold;">-0.27%</td></tr>
+<tr><td>2025-06</td><td style="color:#ff4444;font-weight:bold;">-0.43%</td></tr>
 <tr><td>2025-07</td><td style="color:#ff4444;font-weight:bold;">-0.43%</td></tr>
 <tr><td>2025-08</td><td style="color:#ff4444;font-weight:bold;">-0.42%</td></tr>
 <tr><td>2025-09</td><td style="color:#00ff00;font-weight:bold;">+0.75%</td></tr>

diff --git a/paper_trading.html b/paper_trading.html
@@ -3,7 +3,7 @@
 <head>
     <meta charset="utf-8">
     <meta name="viewport" content="width=device-width, initial-scale=1.0">
-    <title>Paper Trading v8.5 — 2026-07-07</title>
+    <title>Paper Trading v8.5 — 2026-07-08</title>
     <meta name="description" content="HK Stocker v8.5 Paper Trading 實時績效追蹤">
     <script src="https://cdn.jsdelivr.net/npm/chart.js@4"></script>
     <style>
@@ -92,7 +92,7 @@
     <h1>📈 Paper Trading v8.5</h1>
     <p class="subtitle">
         <span class="badge badge-live">● LIVE</span>
-        起始日 2026-05-28 | 更新 2026-07-07 | 初始資金 200,000
+        起始日 2026-05-28 | 更新 2026-07-08 | 初始資金 200,000
     </p>
 
     <div class="metrics">
@@ -162,10 +162,10 @@ const ctx = document.getElementById('equityChart').getContext('2d');
 new Chart(ctx, {
     type: 'line',
     data: {
-        labels: ["2026-05-28", "2026-05-29", "2026-06-01", "2026-06-02", "2026-06-03", "2026-06-04", "2026-06-05", "2026-06-08", "2026-06-09", "2026-06-10", "2026-06-11", "2026-06-12", "2026-06-15", "2026-06-16", "2026-06-17", "2026-06-18", "2026-06-19", "2026-06-22", "2026-06-23", "2026-06-24", "2026-06-25", "2026-06-26", "2026-06-29", "2026-06-30", "2026-07-01", "2026-07-02", "2026-07-03", "2026-07-06", "2026-07-07"],
+        labels: ["2026-05-28", "2026-05-29", "2026-06-01", "2026-06-02", "2026-06-03", "2026-06-04", "2026-06-05", "2026-06-08", "2026-06-09", "2026-06-10", "2026-06-11", "2026-06-12", "2026-06-15", "2026-06-16", "2026-06-17", "2026-06-18", "2026-06-19", "2026-06-22", "2026-06-23", "2026-06-24", "2026-06-25", "2026-06-26", "2026-06-29", "2026-06-30", "2026-07-01", "2026-07-02", "2026-07-03", "2026-07-06", "2026-07-07", "2026-07-08"],
         datasets: [{
             label: 'Paper Trading 權益',
-            data: [200000, 200000, 200000, 200000, 200000, 200000, 200000, 200000, 200000, 200000, 200000, 200000, 200000, 200000, 200000, 200000, 200000, 200000, 200000, 200000, 200000, 200000, 200000, 200000, 200000, 200000, 200000, 200000, 200000],
+            data: [200000, 200000, 200000, 200000, 200000, 200000, 200000, 200000, 200000, 200000, 200000, 200000, 200000, 200000, 200000, 200000, 200000, 200000, 200000, 200000, 200000, 200000, 200000, 200000, 200000, 200000, 200000, 200000, 200000, 200000],
             borderColor: '#60a5fa',
             backgroundColor: 'rgba(96, 165, 250, 0.1)',
             fill: true,
@@ -174,7 +174,7 @@ new Chart(ctx, {
             borderWidth: 2,
         }, {
             label: '初始資金',
-            data: [200000, 200000, 200000, 200000, 200000, 200000, 200000, 200000, 200000, 200000, 200000, 200000, 200000, 200000, 200000, 200000, 200000, 200000, 200000, 200000, 200000, 200000, 200000, 200000, 200000, 200000, 200000, 200000, 200000],
+            data: [200000, 200000, 200000, 200000, 200000, 200000, 200000, 200000, 200000, 200000, 200000, 200000, 200000, 200000, 200000, 200000, 200000, 200000, 200000, 200000, 200000, 200000, 200000, 200000, 200000, 200000, 200000, 200000, 200000, 200000],
             borderColor: '#475569',
             borderDash: [5, 5],
             fill: false,
